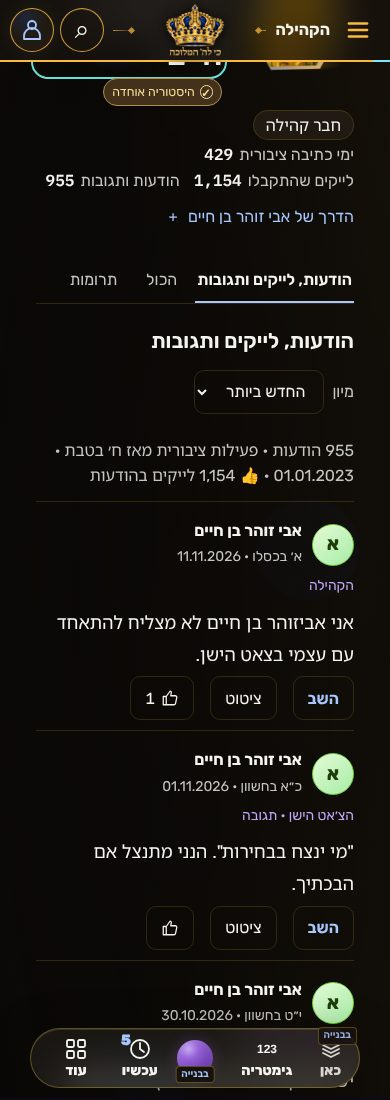
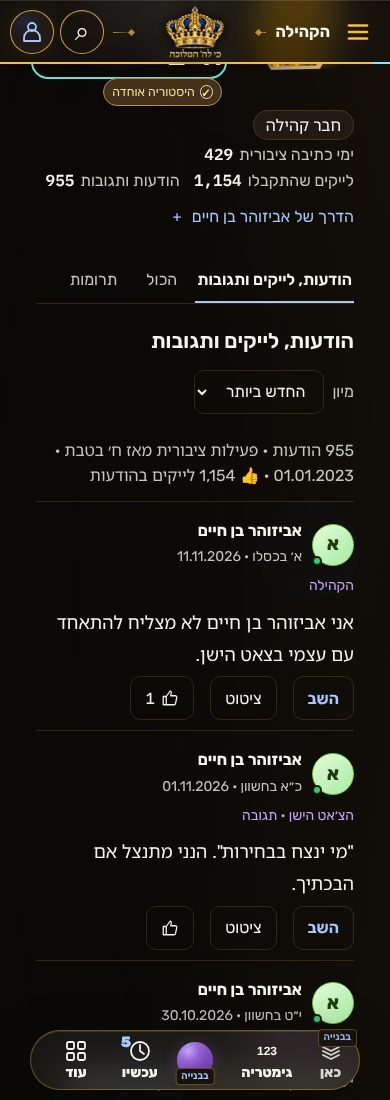
Community: keep Avi's name exactly as it always was (אביזוהר בן חיים); photo and united history unchanged
Claude-Session: https://claude.ai/code/session_01H7739JfjFRejdcKEqPQo2e

diff --git a/src/lib/community/communityAviZohar2029.test.js b/src/lib/community/communityAviZohar2029.test.js
@@ -5,7 +5,7 @@ import { VERIFIED_ARCHIVE_PROFILES, communityAuthorIdentity, normalizeCommunityR
 
 const key = `user:${REVIEWED_AVI_ZOHAR_LINK.accountId}`;
 
-test("Avi Zohar Ben Haim: one person under his account, his name as he writes it, his whole history", () => {
+test("Avi Zohar Ben Haim: one person under his account, his name exactly as it always was, his whole history", () => {
   assert.ok(REVIEWED_COMMUNITY_HISTORY_LINKS.includes(REVIEWED_AVI_ZOHAR_LINK));
   assert.equal(canonicalCommunityAuthorKey(REVIEWED_AVI_ZOHAR_LINK.contributorId), key);
   assert.equal(reviewedCommunityAccountId(REVIEWED_AVI_ZOHAR_LINK.contributorId), REVIEWED_AVI_ZOHAR_LINK.accountId);
@@ -13,13 +13,13 @@ test("Avi Zohar Ben Haim: one person under his account, his name as he writes it
   // the history of both the account and the old contributor is read together
   assert.deepEqual(communityAuthorIdentity(key), { accountIds: [REVIEWED_AVI_ZOHAR_LINK.accountId], contributorIds: [REVIEWED_AVI_ZOHAR_LINK.contributorId], verifiedOwner: true });
   assert.deepEqual(communityAuthorIdentity(REVIEWED_AVI_ZOHAR_LINK.contributorId).accountIds, [REVIEWED_AVI_ZOHAR_LINK.accountId]);
-  assert.equal(VERIFIED_ARCHIVE_PROFILES[key].name, "אבי זוהר בן חיים");
+  assert.equal(VERIFIED_ARCHIVE_PROFILES[key].name, "אביזוהר בן חיים");
   assert.equal(VERIFIED_ARCHIVE_PROFILES[REVIEWED_AVI_ZOHAR_LINK.contributorId].accountUserId, REVIEWED_AVI_ZOHAR_LINK.accountId);
 });
 
 test("an old message of his carries his name and the account link (so the account photo shows)", () => {
   const row = normalizeCommunityRow({ id: "m1", author_name: "אביזוהר בן חיים", author_contributor_id: REVIEWED_AVI_ZOHAR_LINK.contributorId, body: "שלום", origin: "openweb", created_at: "2020-01-01T00:00:00Z" });
-  assert.equal(row.authorName, "אבי זוהר בן חיים");
+  assert.equal(row.authorName, "אביזוהר בן חיים");
   assert.equal(row.linkedUserId, REVIEWED_AVI_ZOHAR_LINK.accountId);
   assert.equal(row.authorKey, key);
 });

diff --git a/src/lib/community/communityArchive.js b/src/lib/community/communityArchive.js
@@ -82,10 +82,10 @@ export const VERIFIED_ARCHIVE_PROFILES = Object.freeze({
   [`user:${REVIEWED_ESTHER_LINK.accountId}`]: {
     name: "Esther Gem", accountUserId: REVIEWED_ESTHER_LINK.accountId,
     publicBio: "מנהלת ותיקה בקהילת סוד 1820, פעילה ומלווה את הקהילה מזה כעשור." },
-  // ZURIEL, 11.11.2026: his name as he writes it, and the account that owns the history (photo comes from that account).
-  [REVIEWED_AVI_ZOHAR_LINK.contributorId]: { sourceUserId: "u_vtNX8TEGu5VV", name: "אבי זוהר בן חיים", ...PROFILE_BASELINES["אביזוהר בן חיים"],
+  // ZURIEL, 11.11.2026: his name exactly as it always was in the community (unchanged), and the account that owns the history (photo comes from that account).
+  [REVIEWED_AVI_ZOHAR_LINK.contributorId]: { sourceUserId: "u_vtNX8TEGu5VV", name: "אביזוהר בן חיים", ...PROFILE_BASELINES["אביזוהר בן חיים"],
     accountUserId: REVIEWED_AVI_ZOHAR_LINK.accountId },
-  [`user:${REVIEWED_AVI_ZOHAR_LINK.accountId}`]: { name: "אבי זוהר בן חיים", accountUserId: REVIEWED_AVI_ZOHAR_LINK.accountId },
+  [`user:${REVIEWED_AVI_ZOHAR_LINK.accountId}`]: { name: "אביזוהר בן חיים", accountUserId: REVIEWED_AVI_ZOHAR_LINK.accountId },
   "4cd9c034-0464-4600-a35d-7156f0584d9b": { sourceUserId: "u_3knnZ5YC", name: "Sod1820", accountUserId: "02a0d207-0136-4beb-a34d-8ff57d10cd85" },
   "19936860-6b35-4386-bc44-113289858ff0": { sourceUserId: "u_3kuB1woMg6wz", name: "Yosi Viner", handle: "YosiViner559", accountUserId: "b6ce542a-2b07-4749-8aba-532c886f6de7" },
 });

diff --git a/docs/reviews/community-avi-zohar-20261111/README.md b/docs/reviews/community-avi-zohar-20261111/README.md
@@ -1,4 +1,4 @@
-# קהילה · אבי זוהר בן חיים + שורת "החשבון שלי מהצ׳אט הישן" (11.11.2026)
+# קהילה · אביזוהר בן חיים (השם כפי שהיה) + שורת "החשבון שלי מהצ׳אט הישן" (11.11.2026)
 
 ענף `claude/community-avatar-link-accounts-20261111` מ־`origin/main` `d5fa184f8`. משימת היומן `COMMUNITY_MAMRA_AVATAR_DISPLAY_20261111` (ענף בלבד, בלי SQL/מיזוג/פריסה). ללא קשר ל־#1313/#1314.
 
@@ -7,9 +7,9 @@
 - רוב התורמים הישנים בעלי דוסייה פרטית: RLS מסתיר את `contributors.user_id`, ולכן הלקוח אינו יכול לדעת מי כבר מחובר.
 
 ## מה תוקן
-- קישור בדוק חדש `REVIEWED_AVI_ZOHAR_LINK` (תצוגה וניווט בלבד, כמו אסתר/אמילי): שם "אבי זוהר בן חיים", תמונת החשבון, והיסטוריה מאוחדת (הדף מראה 955 הודעות + 1,154 לייקים, "היסטוריה אוחדה"). הודעה ישנה בצ׳אט מציגה את שמו ואת תמונתו.
-- בדף האדם: שם הכותרת מהפרופיל הבדוק ולא משם ההודעה האחרונה (שהיה mamra).
-- שם חשבון בלי `display_name` מציג את השם הבדוק, לא את שם ההתחברות.
+- קישור בדוק חדש `REVIEWED_AVI_ZOHAR_LINK` (תצוגה וניווט בלבד, כמו אסתר/אמילי): השם נשאר בדיוק כפי שהיה בקהילה, "אביזוהר בן חיים" (ללא שינוי), תמונת החשבון, והיסטוריה מאוחדת (הדף מראה 955 הודעות + 1,154 לייקים, "היסטוריה אוחדה"). הודעה ישנה בצ׳אט מציגה את שמו כפי שהיה ואת תמונתו.
+- בדף האדם: שם הכותרת הוא השם המקורי ולא שם ההודעה האחרונה (שהיה mamra).
+- שם חשבון בלי `display_name` מציג את שמו המקורי, לא את שם ההתחברות.
 - שורת "החשבון שלי מהצ׳אט הישן" חזרה לראש הצ׳אט (היתה בתוך תפריט ההגדרות), לאורח ולמחובר; לא מוצגת לחשבון שכבר מחובר להיסטוריה.
 - הרשימה בחלון: רק פרופילים שעוד לא חוברו (תורה תמימה, אמילי, אסתר, אבי… הוסרו). מקור: הקישורים הבדוקים + תמונת מצב של שני תורמים נוספים מחוברים (Jasha8, Adi Ifrach) + RPC אופציונלי.
 
